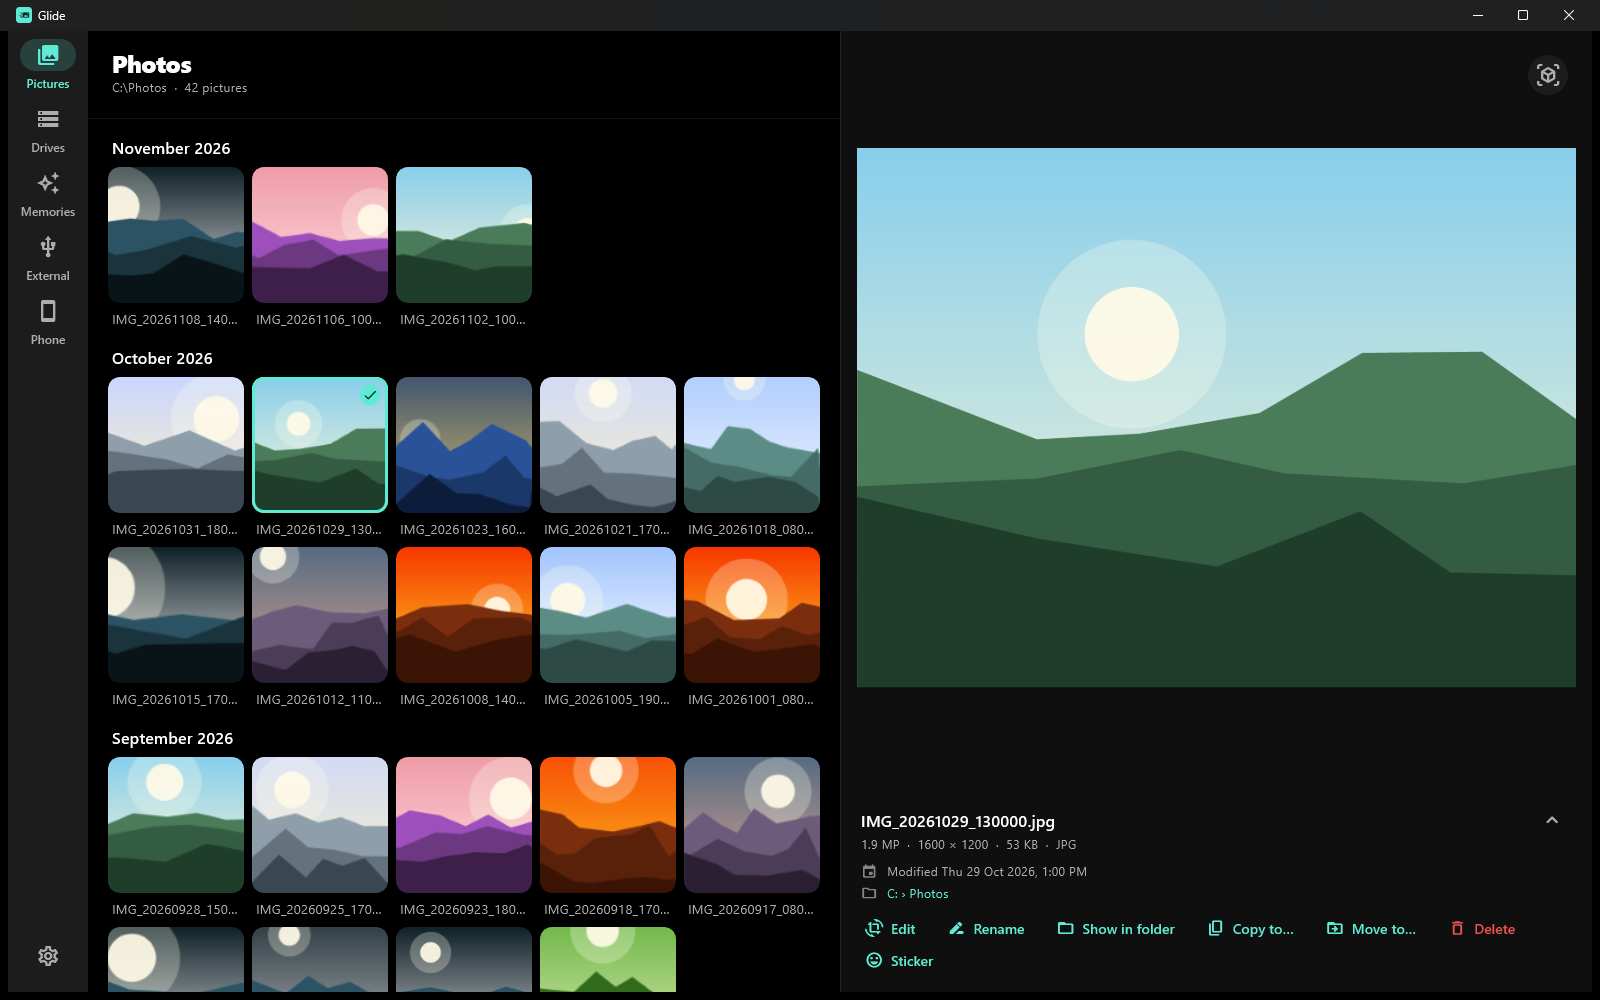
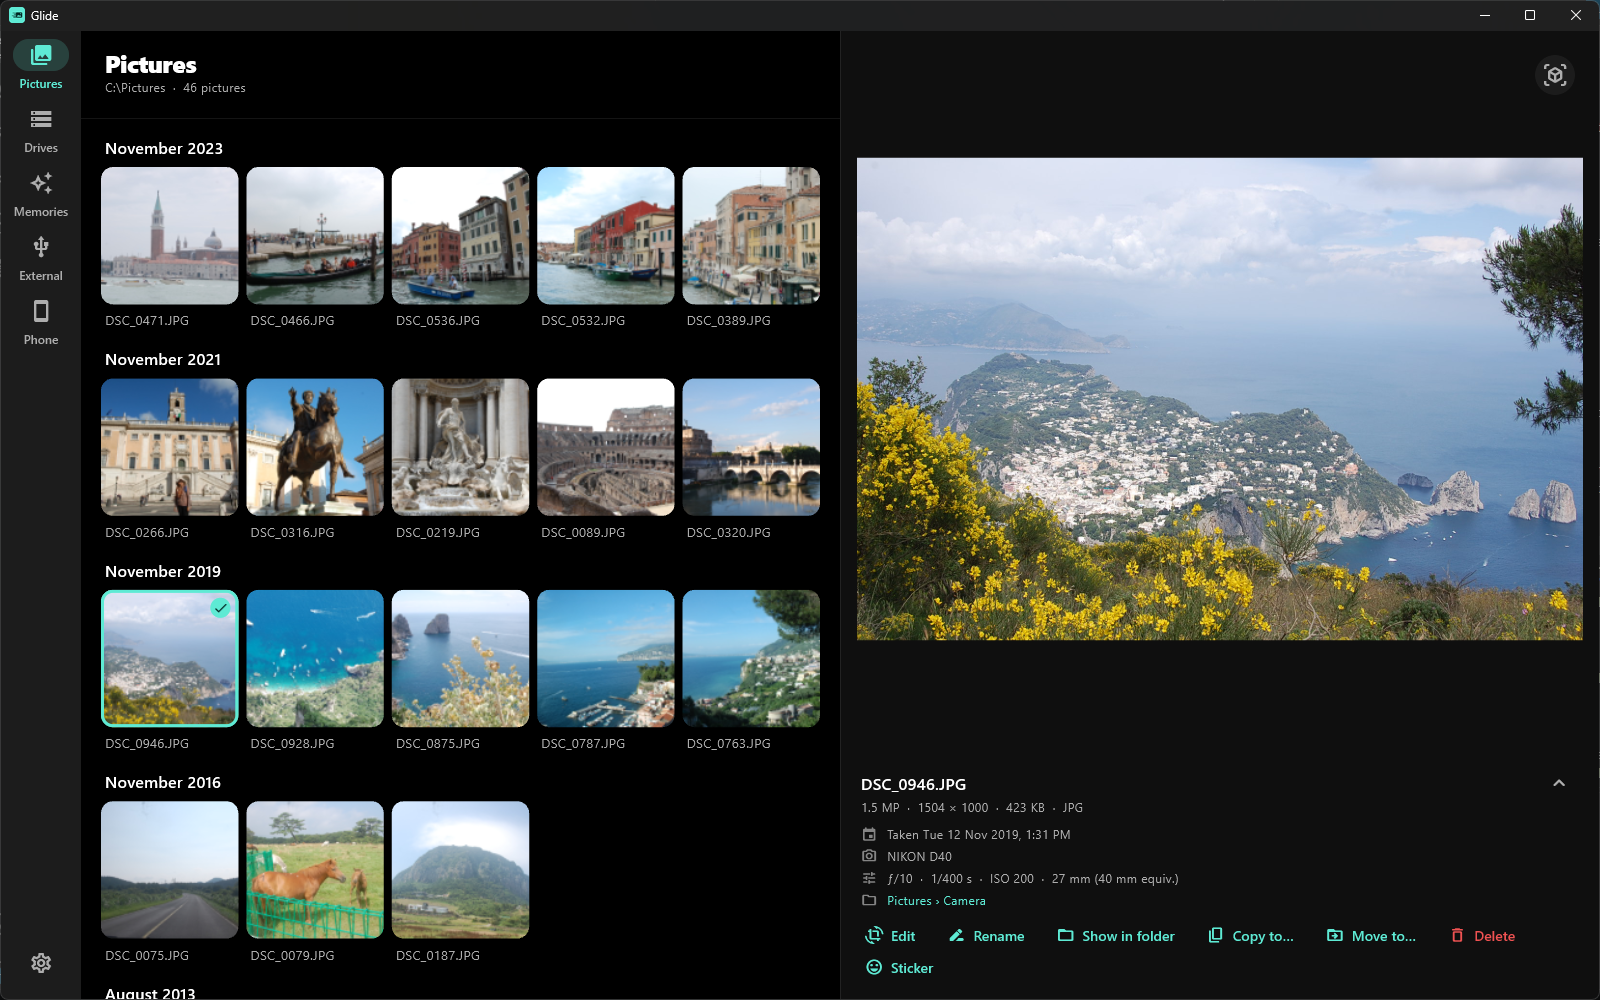
README: real screenshots, with Memories, Compare, the editor and background blur below the first

diff --git a/README.md b/README.md
@@ -5,8 +5,19 @@ no accounts, no ads, no internet. Every picture is there, newest first and
 grouped by month, without any folders to click through.
 
 <p>
-  <img src="docs/img/windows-home.png" alt="Glide on Windows: pictures by month, one open in the preview pane">
+  <img src="docs/img/windows-home.png" alt="Glide on Windows: trips to Venice, Rome and the Italian coast grouped by month, newest first, with a photo of Capri open beside them">
 </p>
+
+<table>
+  <tr>
+    <td width="50%"><img src="docs/img/windows-memories.png" alt="Memories: photos taken on this day in past years, a year at a time"><br><b>Memories:</b> on this day, years ago.</td>
+    <td width="50%"><img src="docs/img/windows-compare.png" alt="Two photos of the same Venice canal compared, ten years apart"><br><b>Compare:</b> then and now, side by side.</td>
+  </tr>
+  <tr>
+    <td width="50%"><img src="docs/img/windows-adjust.png" alt="The editor, with light and colour sliders beside a photo of the Italian coast"><br><b>Edit:</b> crop, light, colour and filters.</td>
+    <td width="50%"><img src="docs/img/windows-blur.png" alt="The background behind a statue blurred, leaving the statue sharp"><br><b>Background:</b> blur it, colour-pop it or replace it.</td>
+  </tr>
+</table>
 
 ## Download
 
